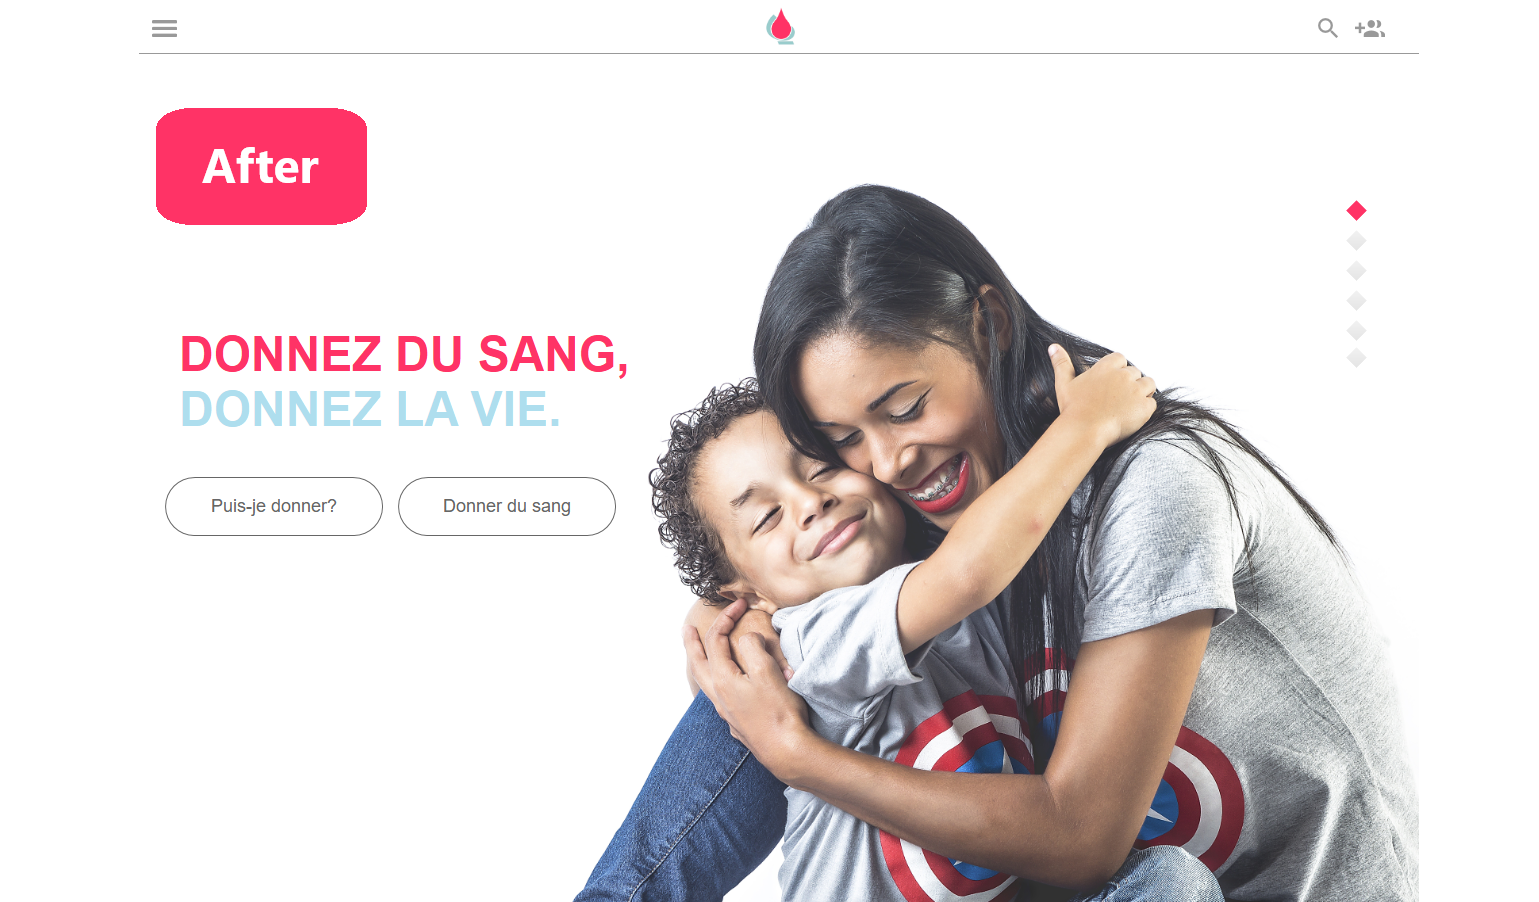
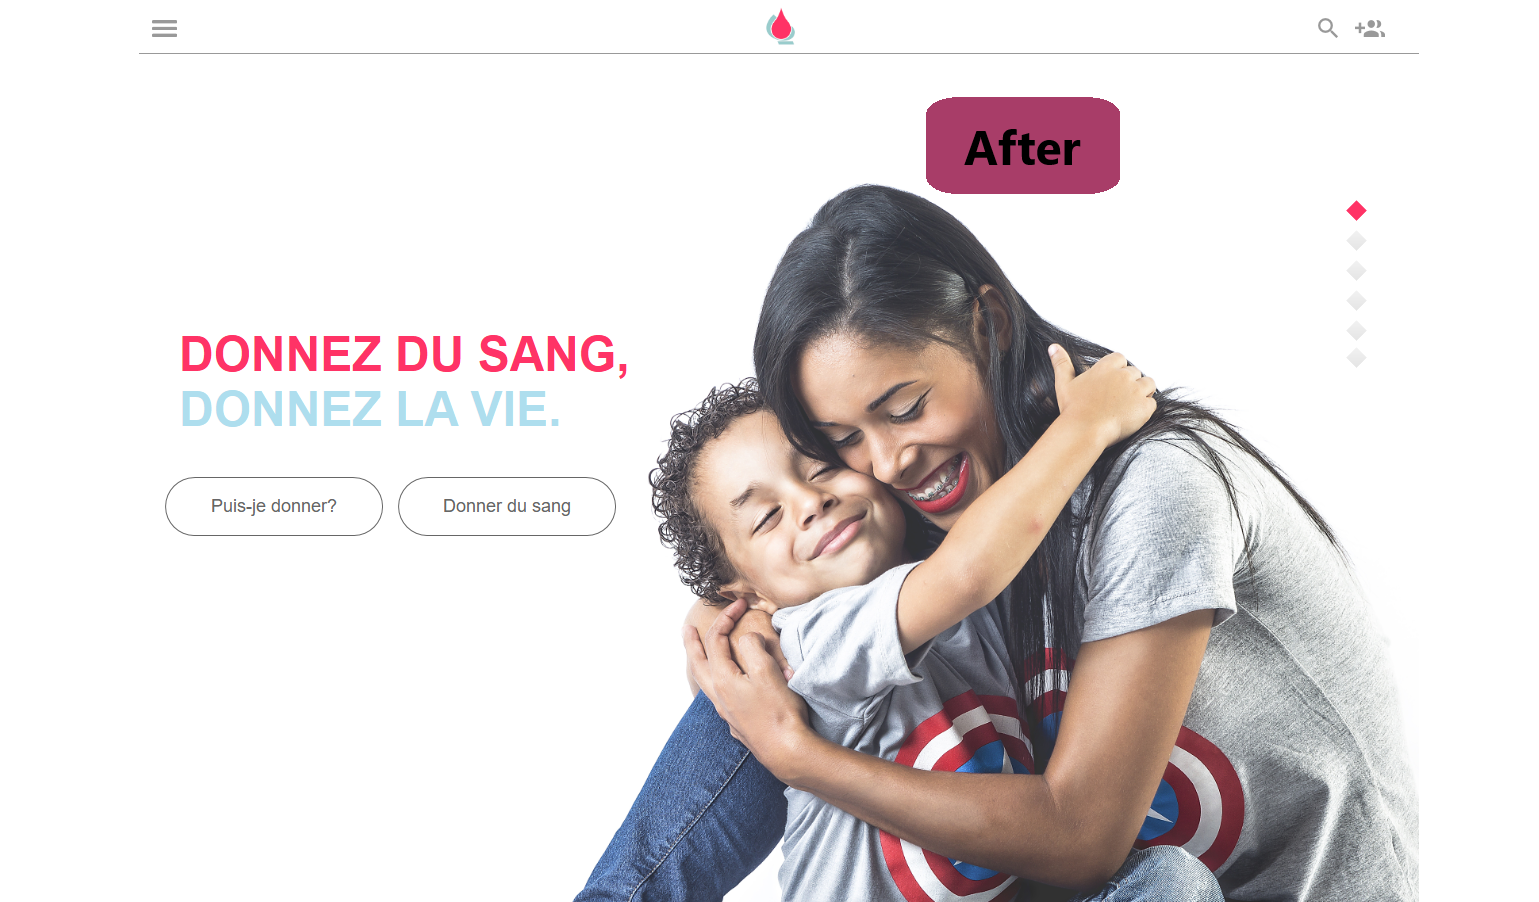
Modifed Slider afte & before sec for hema quebec

Changed region(s): [[0.0936, 0.0931, 0.2495, 0.2483], [0.5926, 0.0931, 0.7485, 0.2173]]

diff --git a/portfolio-details-hema-quebec.html b/portfolio-details-hema-quebec.html
@@ -77,24 +77,15 @@
 
       <div class="container" data-aos="fade-up">
 
-
-
         <!-- Before After Images Slider -->
-        <div class="before-after-container">
-          <figure>
+        <div class="before-after-container portfolio-info">
+          <figure class="swiper-slide footer">
             <div id="compare"></div>
           </figure>
-          <input oninput="beforeAfter()" onchange="beforeAfter()" type="range" min="0" max="100" value="50"
-            id="slider" />
+          <input oninput="beforeAfter()" onchange="beforeAfter()" type="range" min="0" max="100" value="50" id="slider"
+            class="img-fluid" />
         </div>
         <!-- End of Before After Images Slider -->
-
-
-
-
-
-
-
 
         <div class="row justify-content-between gy-4 mt-4">
 

diff --git a/assets/css/main.css b/assets/css/main.css
@@ -905,7 +905,7 @@ section,
 	width: 98vw;
 }
 .before-after-container figure { 
-  background-image: url('../../assets/img/before-accueil-desktop.png');
+  background-image: url('../../assets/img/hema-quebec/hemaQuebec-after-accueil-desktop.png');
 	background-size: cover;
 	font-size: 0;
 	height: 100%;
@@ -914,7 +914,7 @@ section,
 	width: 100%; 
 }
 #compare {
-  background-image: url('../../assets/img/hemaQuebec-after-accueil-desktop.png');
+  background-image: url('../../assets/img/hema-quebec/hemaQuebec-before-accueil-desktop.png');
 	background-size: cover;
 	bottom: 0;
 	border-right: 5px solid var(--accent-color);
